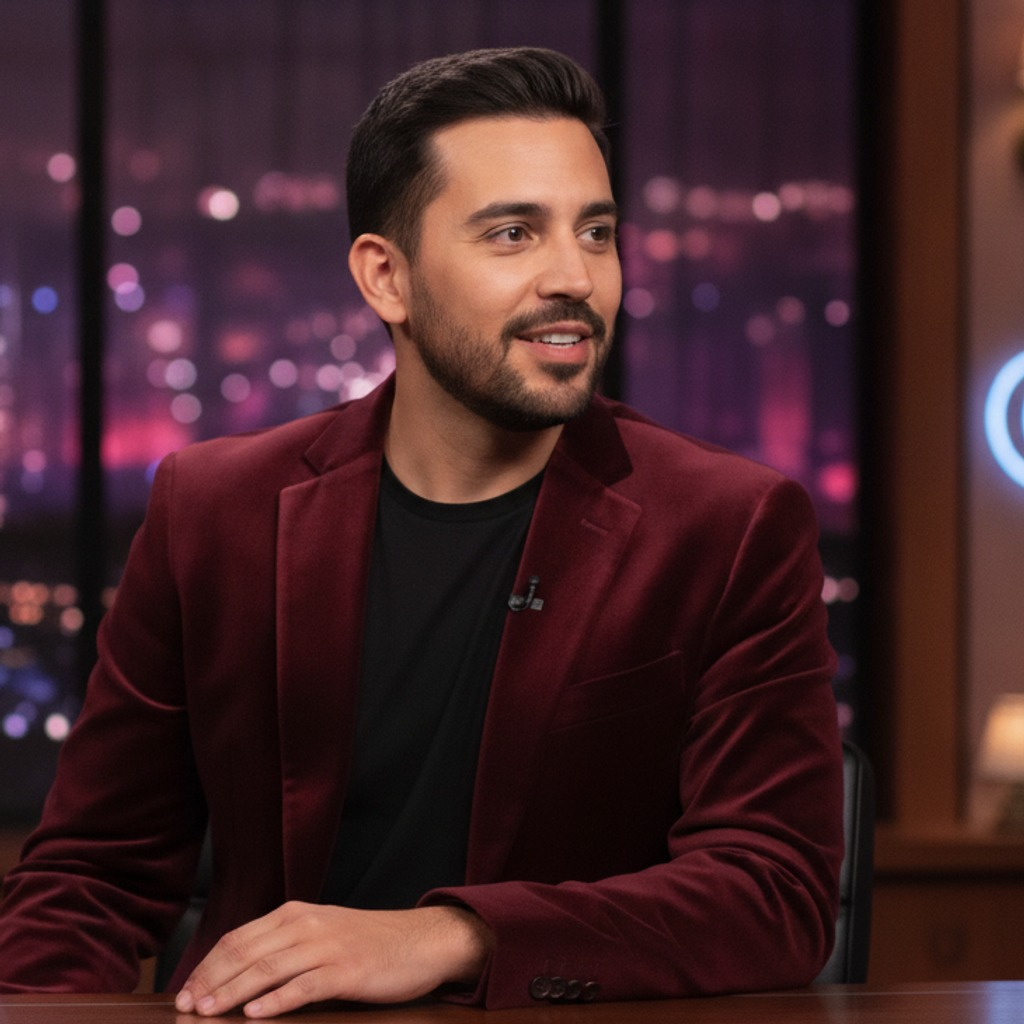
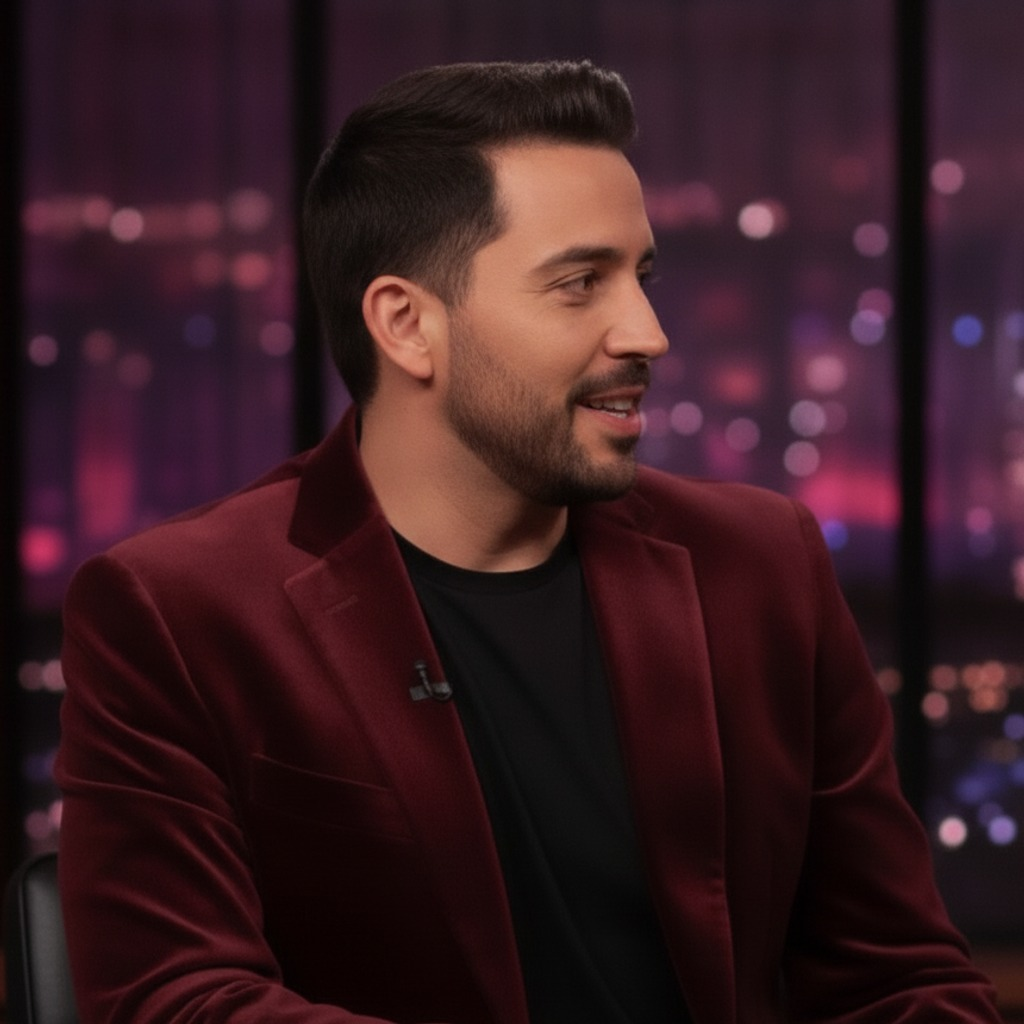
feat: Vivienne Lark and Draconia join the guest list; the host faces the screen
Two more guests: Vivienne Lark, an invented golden-age screen legend made
for the show, and a copy of Draconia Malvane without her spell lesson's
agenda (the original's agenda would pull her back into teaching). Nico's
studio portrait now has his body and head both turned toward the guest's
screen; v2 keeps the portrait's pose, though his head still drifts toward
the camera mid-sentence.

A producer's cue now waits for a real stall (10 s of quiet) before it is
spoken as an event: at 4 s a wrap landed while Nico was only slow to
answer, and his ordinary reply was taken as the closing.

diff --git a/apps/tv-show/show/guests.ts b/apps/tv-show/show/guests.ts
@@ -1,5 +1,5 @@
-// Tonight's possible guests: avatars on the demo account whose own persona
-// fits a talk-show chair and that carry no agenda (a conductor would pull them
+// Tonight's possible guests (all invented characters): avatars on the demo
+// account whose own persona fits a talk-show chair and that carry no agenda (a conductor would pull them
 // back to their own app's steps). AVATAR_TV_SHOW_GUEST_<ID> swaps one.
 export interface Guest {
   id: string;
@@ -14,12 +14,28 @@ export interface Guest {
 
 export const GUESTS: Guest[] = [
   {
+    id: 'vivienne',
+    name: 'Vivienne Lark',
+    billing: 'screen legend and Oscar winner for The Velvet Hour',
+    avatarId: '35d17006-0cf4-4675-9bd2-6f5a6e22358c',
+    subject: 'the lion on her very first picture',
+    rundown: ['The lion on her very first picture', 'Winning the Oscar for The Velvet Hour', 'Three husbands and a dentist', 'Doing her own sword fight in The Silver Veil', 'Life with Bogie and Bacall, her pugs'],
+  },
+  {
     id: 'lumi',
     name: 'Lumi Brook',
     billing: 'a travel writer who has slow-travelled half the world',
     avatarId: '8c589918-2e54-498e-8662-cb0fc3ca9bd5',
     subject: 'the trips that changed her',
     rundown: ['The trip that changed her', 'A city best seen on foot', 'The best meal she ever had abroad', 'One tip for a first solo trip'],
+  },
+  {
+    id: 'draconia',
+    name: 'Draconia Malvane',
+    billing: 'Mistress of Spellcraft at Silverfell, the youngest in three centuries',
+    avatarId: '425bd05c-5dfd-4459-8612-493f70e7501f',
+    subject: 'what it takes to master spellcraft',
+    rundown: ['What it takes to master spellcraft', 'Growing up in the House of Malvane', 'Her owl, Quillon', 'The worst spell a student ever cast in her class'],
   },
   {
     id: 'frank',

diff --git a/apps/tv-show/page/App.tsx b/apps/tv-show/page/App.tsx
@@ -14,9 +14,11 @@ import nico from '../host/portrait.jpg';
 import frank from '../guests/frank.jpg';
 import lumi from '../guests/lumi.jpg';
 import mira from '../guests/mira.jpg';
+import draconia from '../guests/draconia.jpg';
+import vivienne from '../guests/vivienne.jpg';
 import './show.css';
 
-const PORTRAITS: Record<string, string> = { frank, lumi, mira };
+const PORTRAITS: Record<string, string> = { frank, lumi, mira, draconia, vivienne };
 const HOST_BILLING = 'Host, Nightcap Live';
 // After the guest's goodbye: a beat on the two faces, then both calls end.
 const END_AFTER_GOODBYE_MS = 4_000;

diff --git a/apps/tv-show/README.md b/apps/tv-show/README.md
@@ -70,7 +70,7 @@ each with `/<id>/end`, and `GET /api/apps/tv-show/guests`.
   the way the portrait has it (there is no gaze control in the API). The render is a 512 px square
   centre crop, and the build refuses a face under 18 % of its width, so the shot is a medium shot;
   the page carries the set on beyond it.
-- **Guests** (`show/guests.ts`): Detective Frank Malone, Lumi Brook and Mira, demo avatars with no
+- **Guests** (`show/guests.ts`): Vivienne Lark (an invented screen legend, made for this show), Lumi Brook, Draconia Malvane (a copy of the spell-lesson host without its lesson agenda), Detective Frank Malone and Mira, demo avatars with no
   conductor. `AVATAR_TV_SHOW_GUEST_<ID>` swaps one; `AVATAR_TV_SHOW` swaps the host.
 
 ## Limitations
